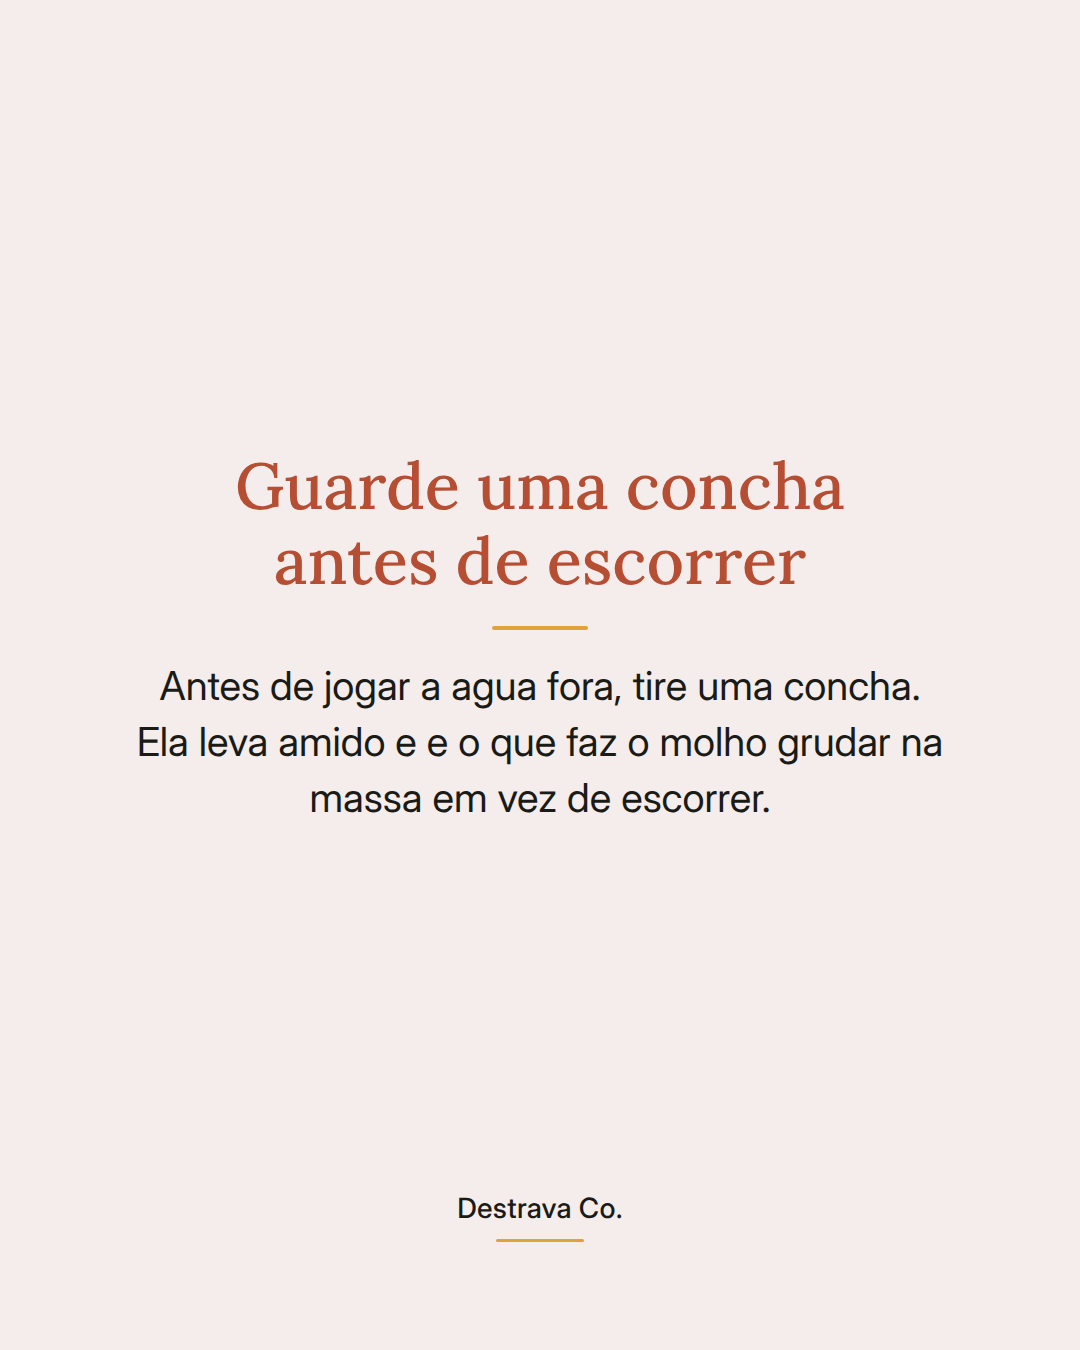
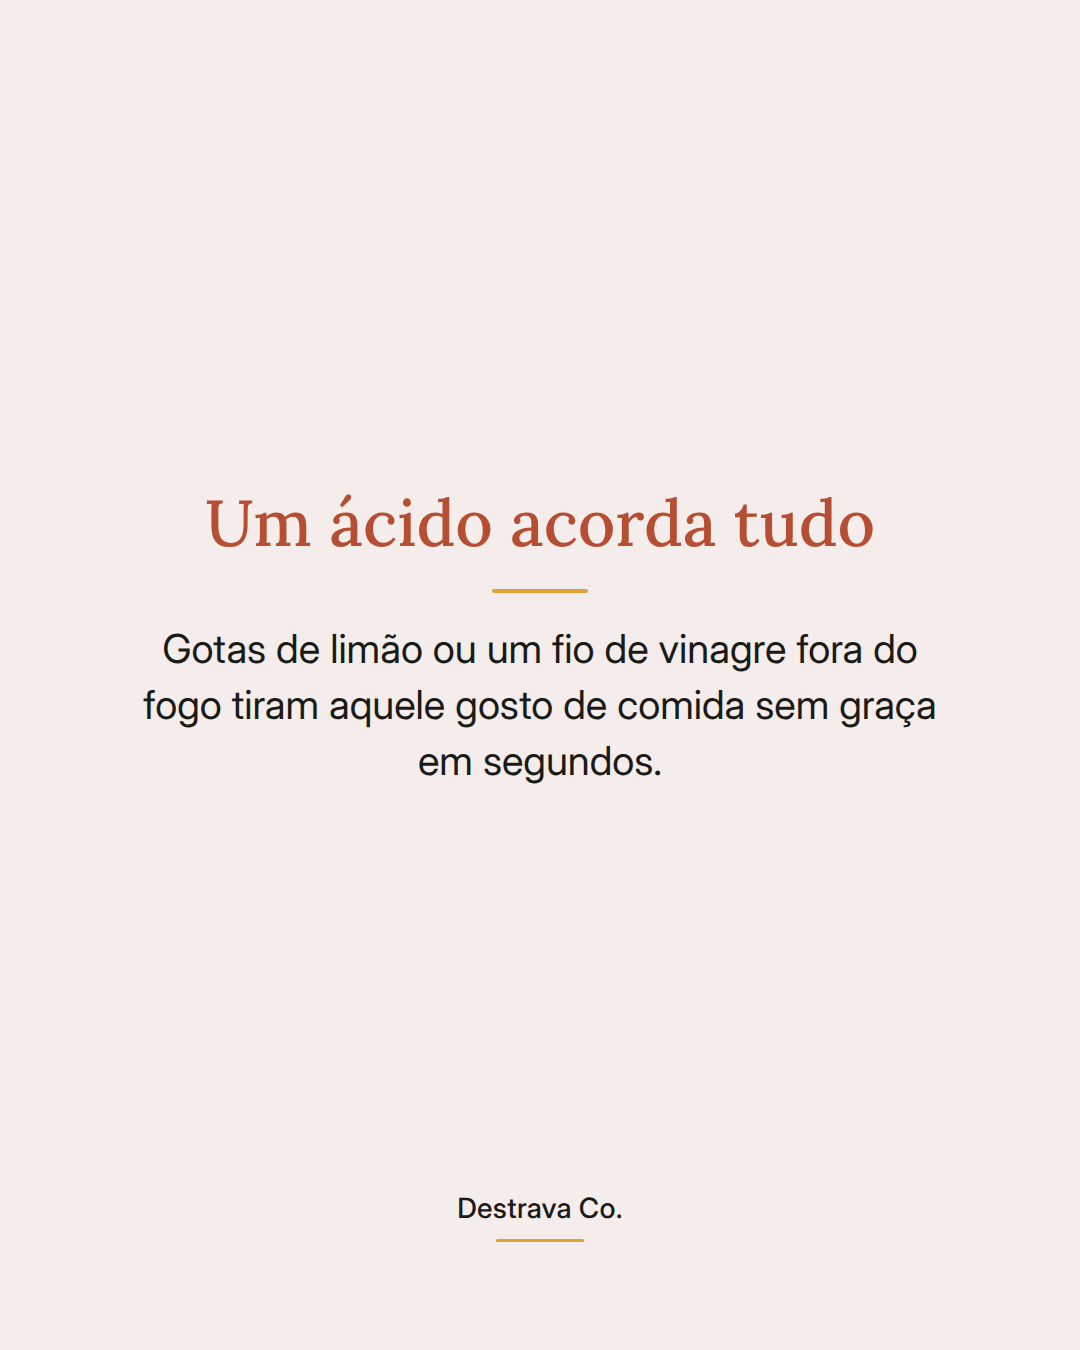
content: peças Instagram 2026_10_10

Changed region(s): [[0.1222, 0.3422, 0.8861, 0.6222]]

diff --git a/public/content/2026_10_10/index.html b/public/content/2026_10_10/index.html
@@ -19,22 +19,23 @@
 </head>
 <body>
 <h1>Cozinha · capa B (wash2)</h1>
-<div class="meta">2026-10-10 · gerado em 2026-10-10T10:03:28 · sticker sugerido nos Stories: quiz</div>
+<div class="meta">2026-10-10 · gerado em 2026-10-10T16:27:25 · sticker sugerido nos Stories: quiz</div>
 <h2>Carrossel</h2>
-<div class="strip"><img src="2026_10_10_-_Carrossel_Cozinha_01.png" alt="Fundo wash2 da linha Cozinha com foto de macarrao na frigideira e titulo em campo dizendo que a agua do macarrao e o ingrediente que falta." title="2026_10_10_-_Carrossel_Cozinha_01.png"><img src="2026_10_10_-_Carrossel_Cozinha_02.png" alt="Fundo wash1 bem claro com titulo em campo profundo sobre guardar uma concha da agua antes de escorrer a massa." title="2026_10_10_-_Carrossel_Cozinha_02.png"><img src="2026_10_10_-_Carrossel_Cozinha_03.png" alt="Fundo wash1 bem claro com titulo em campo profundo explicando terminar a massa dentro da panela do molho." title="2026_10_10_-_Carrossel_Cozinha_03.png"><img src="2026_10_10_-_Carrossel_Cozinha_04.png" alt="Fundo wash1 bem claro com titulo em campo profundo e tres situacoes de molho que a agua do cozimento resolve." title="2026_10_10_-_Carrossel_Cozinha_04.png"><img src="2026_10_10_-_Carrossel_Cozinha_05.png" alt="Fundo campo profundo com texto creme convidando a baixar o PDF de 20 receitas rapidas e botao no tom de acento." title="2026_10_10_-_Carrossel_Cozinha_05.png"></div>
+<div class="strip"><img src="2026_10_10_-_Carrossel_Cozinha_01.png" alt="Fundo wash2 da linha Cozinha com foto de prato finalizado e título em campo sobre os últimos 30 segundos do jantar." title="2026_10_10_-_Carrossel_Cozinha_01.png"><img src="2026_10_10_-_Carrossel_Cozinha_02.png" alt="Fundo wash1 bem claro com título no campo profundo sobre usar limão ou vinagre no fim do preparo." title="2026_10_10_-_Carrossel_Cozinha_02.png"><img src="2026_10_10_-_Carrossel_Cozinha_03.png" alt="Fundo wash1 bem claro com título no campo profundo sobre acrescentar gordura depois de desligar o fogo." title="2026_10_10_-_Carrossel_Cozinha_03.png"><img src="2026_10_10_-_Carrossel_Cozinha_04.png" alt="Fundo wash1 bem claro com título no campo profundo e lista de três opções crocantes para finalizar o prato." title="2026_10_10_-_Carrossel_Cozinha_04.png"><img src="2026_10_10_-_Carrossel_Cozinha_05.png" alt="Fundo campo profundo com texto creme convidando a baixar o PDF e botão no tom de acento." title="2026_10_10_-_Carrossel_Cozinha_05.png"></div>
 <h2>Stories</h2>
-<div class="strip"><img class="story" src="2026_10_10_-_Stories_Cozinha_01.png" alt="Fundo wash2 da linha Cozinha com kicker novo no feed e titulo em campo pedindo pra nao jogar a agua do macarrao fora." title="2026_10_10_-_Stories_Cozinha_01.png"><img class="story" src="2026_10_10_-_Stories_Cozinha_02.png" alt="Stories em fundo terracota com convite ao e-book gratuito de 20 receitas rápidas e o endereço da página em destaque no chip mostarda." title="2026_10_10_-_Stories_Cozinha_02.png"></div>
+<div class="strip"><img class="story" src="2026_10_10_-_Stories_Cozinha_01.png" alt="Fundo wash2 da linha Cozinha com kicker e título em campo convidando a deslizar para o feed." title="2026_10_10_-_Stories_Cozinha_01.png"><img class="story" src="2026_10_10_-_Stories_Cozinha_02.png" alt="Stories em fundo terracota com convite ao e-book gratuito de 20 receitas rápidas e o endereço da página em destaque no chip mostarda." title="2026_10_10_-_Stories_Cozinha_02.png"></div>
 <div class="meta">1º · stories post do dia · <a href="2026_10_10_-_Stories_Cozinha_01.png" download="2026_10_10_-_Stories_Cozinha_01.png">⬇ baixar</a> · sticker de link → post do dia (permalink em publicado.json depois de publicar) · sticker extra sugerido: quiz</div><div class="meta">2º · stories oferta · <a href="2026_10_10_-_Stories_Cozinha_02.png" download="2026_10_10_-_Stories_Cozinha_02.png">⬇ baixar</a> · sticker de link → <a href="https://lp.destravaco.com.br/receitas-15min">https://lp.destravaco.com.br/receitas-15min</a></div>
 <div class="meta">Stories não vão pela API: baixe e poste no app colando o sticker de link.</div>
 <h2>Legenda</h2>
-<pre>A agua do macarrao e o ingrediente que quase todo mundo joga fora.
+<pre>Jantar rápido não fica sem graça por falta de receita, fica por falta de acabamento.
+São os últimos 30 segundos na panela que mudam o prato: um ácido, uma gordura e algo crocante.
 
-Molho cremoso num jantar rapido nao precisa de creme de leite: precisa do amido que fica na agua do cozimento. Guarde uma concha antes de escorrer e volte a massa pra panela do molho por um minuto.
+O ácido entra fora do fogo, gotas de limão ou um fio de vinagre, e o sabor acorda na hora. A gordura vem depois de desligar, azeite ou um pedacinho de manteiga, e o molho fica mais redondo. A crocância é o toque final: castanha picada, pão torrado esfarelado, cebolinha.
 
-E ali, mexendo, que o molho encorpa e gruda em cada fio. Serve pro tomate simples, pro alho e oleo e ate pro queijo ralado que sempre embola.
+São três gestos de poucos segundos que funcionam em arroz com ovo, macarrão simples, legume refogado, sopa de pacote.
 
-Salva pra lembrar na proxima panela de macarrao e manda pra quem sempre escorre tudo na pia. Se quiser mais jantares de ate 15 minutos, o PDF com 20 receitas rapidas esta esperando por voce.
+Salva pra lembrar no próximo dia corrido e manda pra alguém que vive dizendo que cozinha mal. Se quiser a parte de baixo do prato pronta também, meu PDF com 20 receitas de até 15 minutos está te esperando na bio.
 
-<span class="tags">#receitasrapidas #jantarpratico #cozinhapratica #comidacaseira #receitasfaceis</span></pre>
+<span class="tags">#receitasrapidas #cozinhapratica #jantarpratico #comidadeverdade #praticidadenacozinha</span></pre>
 </body>
 </html>
